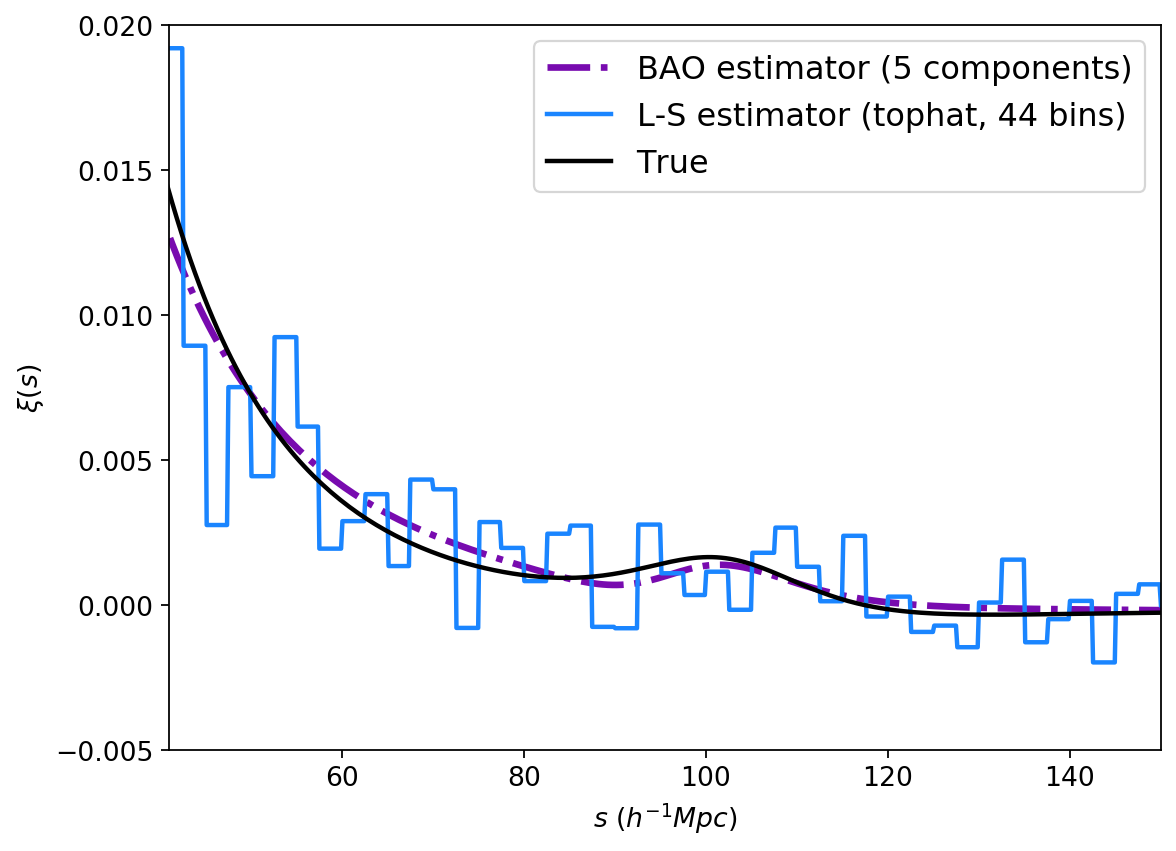
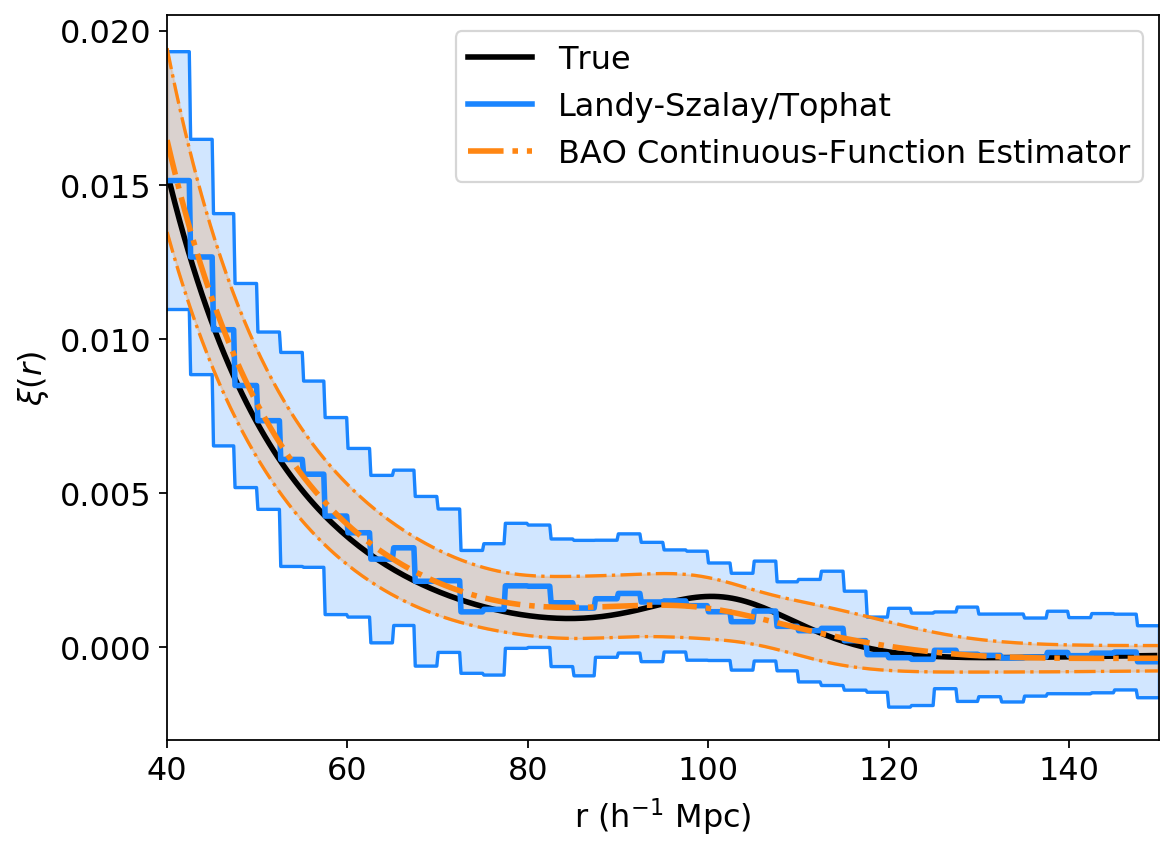
updated bao figure

Changed region(s): [[0.0306, 0.0, 1.0, 0.9777], [0.0, 0.4277, 0.0306, 0.4888]]

diff --git a/paper/paper.tex b/paper/paper.tex
@@ -3,12 +3,10 @@
 
 % to-do
 % -----
-% - get yourself an ORCID and use it.
-% - Is ``vectorized'' the right word? It's what I say, but now I'm doubting it. We could go with linear-regression. Or affine-invariant. Or unbinned. Or continuous-function?
 
 % style notes
 % -----------
-% - line break at sentence breaks? Or more frequently? So git diff works good?
+% - line break at sentence breaks
 
 %\documentclass[twocolumn]{aastex62}
 %\documentclass[12 pt]{article}
@@ -43,8 +41,8 @@
 \newcommand{\T}{^{\mathsf{T}}}
 \newcommand{\hmpc}{$h^{-1}$Mpc}
 % comments
-%\newcommand{\KSF}[1]{\textcolor{teal}{KSF says: #1}}
-\newcommand{\KSF}[1]{\textcolor{teal}{}}
+\newcommand{\KSF}[1]{\textcolor{teal}{KSF says: #1}}
+%\newcommand{\KSF}[1]{\textcolor{teal}{}}
 
 % margins
 %\addtolength{\topmargin}{-0.75in}
@@ -132,16 +130,17 @@ The LSS also contains the signature of redshift-space distortions caused by the 
 Additionally, the LSS can be used to constrain galaxy formation in conjunction with models of galaxy bias (e.g. \citealt{Hamilton1988}). %?
 With current observations, the LSS is well-described by a cold dark matter model with a cosmological constant, the standard $\Lambda$CDM model.
 Upcoming galaxy surveys will observe larger volumes with improved measurements, allowing us to test $\Lambda$CDM to even higher precision.
+\KSF{Should I name-drop surveys, and their data volume / sky area?}
 
 We characterize the LSS by using luminous sources to trace the underlying matter density field.
 These tracers are often to taken to be galaxies, but can also be galaxy clusters, quasars and other sources.
-% should i say that hereafter we will take them to be galaxies?
-The clustering of these objects is measured with two-point statistics, namely the power spectrum $P(k)$ and the two-point correlation function (\cf). %name xi_r?
+\KSF{should i say that hereafter we will take them to be galaxies?}
+The clustering of these objects is measured with two-point statistics, namely the power spectrum $P(k)$ and the two-point correlation function (\cf).
 These characterize the clustering in Fourier space and real space, respectively, with the \cf defined as the Fourier Transform of the power spectrum: 
-%TODO: CHECK, PROBS WRONG
 \begin{equation}
-\xi(r) = \frac{1}{2\pi} \int_0^{\infty} P(k) d^3k
+\xi(r) = \frac{1}{2\pi^2} \int_0^{\infty} P(k) \frac{\mathrm{sin}(kr)}{kr} k^2 dk
 \end{equation}
+where we assume isotropy. \KSF{should i give the original Fourier transform before itegrating over orientation?}
 In principle, the power spectrum and the two-point correlation function contain the same information.
 However, in practical applications the survey boundaries introduce nontrivial issues in computing these statistics, leading to diverging approaches to their computation with a significant difference in expense.
 The \cf requires more computational power and extra survey products, but it is an incredibly useful tool; for instance, it well-suited to the analysis of the BAO feature which manifests at a single scale in real space.
@@ -150,14 +149,21 @@ The \cf measures the excess probability that any two galaxies are separated by a
 % need to discuss statistical homogeneity & isotropy? (ergodicity?)
 In calculating the \cf, the boundaries of the surveys prevent us from directly summing pair counts due to nontrivial edge effects.
 To account for the survey boundaries as well as corrupted regions due to issues such as bright foreground stars, a set of random points are Poisson-distributed within the acceptable survey window. 
-The pairwise correlations of these points, which by construction are unclustered, are used to normalize out the survey window when estimating the \cf of the clustered data.
+The pairwise correlations of these unclustered points are used to normalize out the survey window when estimating the \cf of the clustered data.
 Typically, this requires random points on the order of 10-100 times the number of data points, making the random correlations the limiting factor in \cf computation.
 
 The \cf is computed in bins of radial separation, meaning that in practice it measures the volume average of the \cf over the bin. %is this accurate?
-The choice of bins requires a trade-off between bias and variance: fewer bins may bias the result, while more bins increases the variance of measurement.
-Finite-width bins also result in a loss of information about the property in which one is binning. 
-Especially as we strive for extreme precision in large-scale structure analyses, we should be maximizing the information we extract from the data.
-Moreover, we note that standard estimators are fundamentally biased due to this finite binning; we will address this in a future work. %TODO: figure out this wording. need to explain more than this or leave out entirely?
+This binning introduces inherent limitations.
+First, the choice of bins requires a trade-off between bias and variance: fewer bins may bias the result, while more bins increases the variance of measurement.
+Finite-width bins also result in a loss of information about the property in which one is binning.
+As we strive for extreme precision in large-scale structure analyses, we should be maximizing the information we extract from the data.
+
+More generally, binning adds arbitrary boundaries between continuous data; results should not depend on bin choice, yet they sometimes do.
+\cite{Lanzuisi2017} noted that the choice of binning axis impacts the detected correlation between the luminosity of active galactic nuclei and their host galaxies; \cite{Grimmett2020} devised a method to investigate this correlation in a continuous manner using a hierarchical Bayesian model, eliminating the need for binning.
+\cite{Bailoni2016} explored the dependence of clustering analyses on the number of redshift bins, finding a non-negligible difference in cosmological parameter uncertainties.
+The implications for BAO analyses were explored by \citep{Percival2014}, who found that there is an optimal bin width given the analysis method.
+This balances the increasing statistical error with small bins and the offset in the derived BAO peak location with large bins; the effects are small but non-negligible.
+%Moreover, we note that standard estimators are fundamentally biased due to this finite binning; we will address this in a future work. %TODO: figure out this wording. need to explain more than this or leave out entirely?
 
 %some papers have equations (even this eqn) in intro - but should bump it to motivation and just explain?
 Estimators of the \cf have been studied extensively (\citealt{PeeblesHauser1974}; \citealt{DavisPeebles1983}; \citealt{Hamilton1993}).
@@ -176,11 +182,11 @@ Variations on the random catalog pair count method have been proposed in recent 
 \cite{Demina2016} replaced the $DR$ and $RR$ terms with an integral over the probability map, reducing computation time and increasing precision.
 An estimator proposed by \cite{VargasMagana2013} iterates over sets of mock catalogs to find an optimal linear combination of data and random pair counts, reducing the bias and variance.
 The marked correlation function \citep{WhitePadmanabhan2009} sums weights based on properties of the galaxies one is interested in, such as the local density or galaxy luminosity, and avoids the use of a random catalog.
-The estimators described so far have all taken probabilistic approaches; some have also taken a likelihood approach.
+The estimators described so far have all taken probabilistic approaches; others have taken a likelihood approach.
 \cite{BaxterRozo2013} introduced a maximum likelihood estimator for the \cf, which achieves lower variance compared to the \LS estimator, enabling finer binning and requiring a smaller random catalog for the same precision.
 
 These estimators present improvements to \LS, but they are still limited to estimates in separation bins.
-Some require additional computational costs or layers of complexity, so the standard formulation of \LS continues to be the default estimator used in most analyses. %make sure this is true! talk to cosmologists who do these analyses
+Some require additional computational costs or layers of complexity, so the standard formulation of \LS continues to be the default estimator used in most analyses.
 
 In this paper, we present a new estimator for the correlation function, \est, which generalizes the \LS estimator to produce a continuous estimation of the \cf. 
 \Est projects the galaxy pairs onto a set of continuous basis functions and computes the best-fit linear combination of these functions.
@@ -241,11 +247,9 @@ Naively, in the case of the \cf, the observed data is the pair counts at a given
 Indeed, this is reminiscent of the so-called natural estimator of the \cf, $\xi_k = DD_k/RR_k - 1$ (e.g. \citealt{Kerscher2000}).
 
 From this connection, we can infer the form of the estimator.
+\KSF{expand this section}
 
 % TODO: fix this capitalization issue
-%\section{\Est} 
-%\label{sec:est}
-
 \subsection{\Est}
 \label{sec:est}
 
@@ -328,7 +332,8 @@ We also generate a uniformly sampled random catalog with 10 times the number of 
 \begin{figure}[ht]
 \centering
     \includegraphics[width=0.8\textwidth]{tophat_cubic}
-    \caption{A comparison between \est with a cubic spline basis function (red dotted) and the standard tophat estimator (blue solid). The shaded region is the 1$\sigma$ variation in the 100 mock catalogs. The cubic spline estimator has lower bias and lower variance with fewer bins. \KSF{move rmse from figure into text only? but then not necessarily clear its less biased} \KSF{does tophat need to be a different linestyle?}}
+    \caption{A comparison between \est with a cubic spline basis function (red dotted) and the standard tophat estimator (blue solid). The shaded region is the 1$\sigma$ variation in the 100 mock catalogs. The cubic spline estimator has lower bias and lower variance with fewer bins. \KSF{quote rmse in caption? otherwise not clear from figure its less biased.} \KSF{does tophat need to be a different linestyle?}} \KSF{fix to dotted linestyle}
+
 \end{figure}
 
 \KSF{Should i have a figure showing the basis functions?}
@@ -336,8 +341,6 @@ We also generate a uniformly sampled random catalog with 10 times the number of 
 \KSF{These sims have the weird thing where the data says the peak is offset. Should figure out, and also it's distracting from the main point of the figure}
 
 \KSF{FINAL PARAMS:  number density 3e-4 (now 1e-4). rmax 200 hMpc (now 150). rcont=1000 (now rcont=300). L=1000 hMpc (now 750 - need more to account for higher rmax)}
-
-\KSF{should RMSE be shown in figure as well as described in text?}
 
 A natural extension of tophat basis functions is the B-spline.
 B-splines of order $n$ are piecewise polynomials of order $n-1$; they constitute the basis functions for spline interpolation \KSF{CITE}.
@@ -416,8 +419,6 @@ With the terms in this fitting function the bases of our estimator, the values $
 
 \KSF{Instead of this alpha test, should do a slightly more realistic one where we change the model cosmology? Issue is that we then don't know the truth}
 
-\KSF{BUT my estimator is having a hard time recovering the truth anyway! Because of variance in the realizations. It converges to the same, but wrong, value of alpha, and diff ones for diff realizations. Need to average over many?}
-
 \KSF{compare to tophat fit with standard BAO fitting function??}
 
 \label{fig:bao_bases}
@@ -428,25 +429,28 @@ With the terms in this fitting function the bases of our estimator, the values $
 \end{figure}
 
 We demonstrate this method using the same set of lognormal mocks as in $\S$\ref{sec:spline}.
-We construct a simple test in which our model is the known input model, the Planck parameters, but with some scale dilation offset, here $\alpha_{mod}=1.05$ (while the true value is, of course, $\alpha=1$).
+We construct a simple test in which our model is the known input model, the Planck parameters, but with some scale dilation offset, here $\alpha_{mod}=0.98$ (while the true value is, of course, $\alpha=1$).
 The set of basis functions for our estimator is shown in Figure~\ref{fig:bao_bases}.
 
 We perform an iterative procedure to estimate $\alpha$.
-After the first estimation with the $\alpha=1.05$, model, we use the value of $C$ to compute the recovered $\alpha$, as described above.
+After the first estimation with the $\alpha=0.98$, model, we use the value of $C$ to compute the recovered $\alpha$, as described above.
 We then take that value as our $\alpha_{mod}$, and re-run the estimator.
 We stop when the percent change between $\alpha_{mod}$ and the recovered $\alpha$ is less than 0.01\%; it typically takes only $\sim$5 iterations to converge. \KSF{update this with true values}
-The resulting estimate for the correlation function is shown in Figure~\ref{fig:bao}, in comparison to the traditional tophat estimator.
+We apply this procedure to each of the 100 mocks; the resulting estimate for the correlation function is shown in Figure~\ref{fig:bao}.
+The mean BAO estimate is shown in orange, and the mean tophat estimate is in blue; the truth is in black.
+Our estimator clearly better represents the shape of the known \cf.
+The mean value of the final recovered scale dilation parameter is $\alpha=0.9995$ \KSF{What do i quote for the error here?}, very close \KSF{quote percent?} to the true value of $1$.
 
 \label{fig:bao}
 \begin{figure}[th]
 \centering
     \includegraphics[width=0.8\textwidth]{bao}
-    \caption{Estimation of the correlation function using our estimator with basis functions based on the BAO fitting function (purple dot-dashed). We also show the standard Landy-Szalay estimator, displayed as a tophat function (blue), as well as the true input correlation function (black). \KSF{This is a placeholder figure! Need to resolve issues above.} \KSF{Should this and the basis set figure be a single figure with two panels?}}
+    \caption{Estimation of the correlation function using our estimator with basis functions based on the BAO fitting function (orange dot-dashed). The line is the mean of the final estimate from the iteration procedure for 100 mocks, and the shaded region is the $1\sigma$ variation. We also show the standard Landy-Szalay estimator, displayed as a tophat function (blue), as well as the true input correlation function (black). \KSF{This is for the 1e-4 box, need to run bigger box.} \KSF{Should this and the basis set figure be a single figure with two panels?} \KSF{Should i have a figure showing the sum of the basis functions and how that gets you the final cf?}}
 \end{figure}
 
-These basis functions are significantly different than the tophat or B-spline bases previously explored as they are not localized.
+We note that these basis functions are significantly different than the tophat or B-spline bases previously explored, mainly because they are not localized.
 This means that data at all scales could contribute to all basis functions.
-It is then critical to ensure that the final parameter estimate does not reply on the range of scales chosen.
+It is then critical to ensure that the final parameter estimate does not rely on the range of scales chosen.
 We have confirmed that in this application, the result is robust to the chosen range as long as the scales cover the range $40<r<200$ \hmpc, the typical range used in BAO analyses. \KSF{Actually have to check this and update numbers!}
 
 % \section{Application to survey data} \label{sec:app}
@@ -544,7 +548,7 @@ The basis functions $f$ in this case would take the form
     f_k(T_n, T_m) = f_k(r_{nm}, z_n, z_m),
 \end{equation}
 where $z$ is the redshift of tracer $n$ or $m$.
-Another potential use case is the luminosity and color dependence of galaxy clustering, which can be used to probe galaxy formation \citep{Zehavi20}.
+Another potential use case is the luminosity and color dependence of galaxy clustering, which can be used to probe galaxy formation \citep{Zehavi2011}.
 This could be extended to other galaxy properties.
 
 The estimator gives us the opportunity to investigate more subtle or exotic signals which are anomalous with respect to our conventional models.
